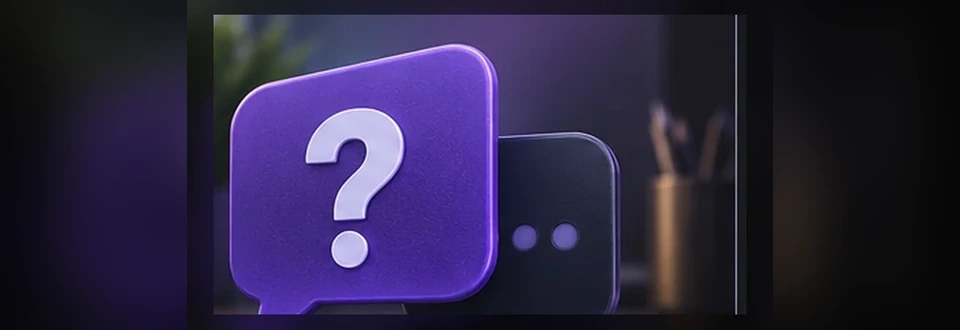
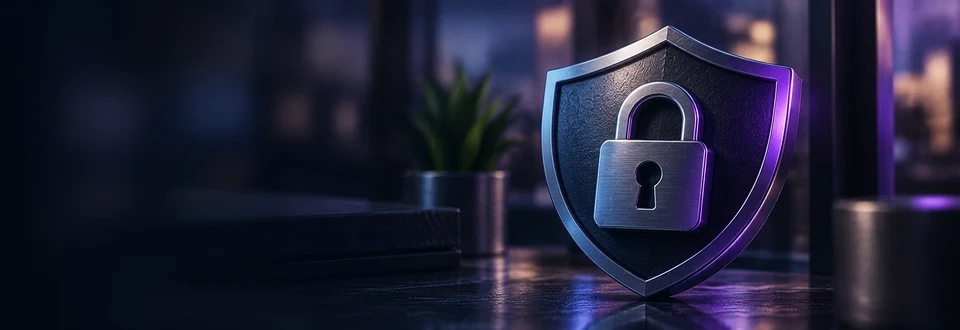
upd

diff --git a/assets/CSS/styles/main-menu.css b/assets/CSS/styles/main-menu.css
@@ -84,9 +84,9 @@
 }
 
 .main-menu-logo {
-    width: 38px;
-    height: 38px;
-    flex: 0 0 38px;
+    width: 44px;
+    height: 44px;
+    flex: 0 0 44px;
     display: grid;
     grid-template-columns: repeat(2, 1fr);
     gap: 4px;
@@ -134,9 +134,9 @@
 }
 
 .main-menu-avatar {
-    width: 38px;
-    height: 38px;
-    flex: 0 0 38px;
+    width: 44px;
+    height: 44px;
+    flex: 0 0 44px;
     display: flex;
     align-items: center;
     justify-content: center;
@@ -425,9 +425,9 @@
     }
 
     .main-menu-logo {
-        width: 30px;
-        height: 30px;
-        flex-basis: 30px;
+        width: 34px;
+        height: 34px;
+        flex-basis: 34px;
         gap: 3px;
     }
 
@@ -448,9 +448,9 @@
     }
 
     .main-menu-avatar {
-        width: 30px;
-        height: 30px;
-        flex-basis: 30px;
+        width: 34px;
+        height: 34px;
+        flex-basis: 34px;
         border-radius: 8px;
         font-size: 10px;
     }
@@ -525,9 +525,9 @@
     }
 
     .main-menu-logo {
-        width: 27px;
-        height: 27px;
-        flex-basis: 27px;
+        width: 31px;
+        height: 31px;
+        flex-basis: 31px;
         gap: 2px;
     }
 
@@ -545,9 +545,9 @@
     }
 
     .main-menu-avatar {
-        width: 27px;
-        height: 27px;
-        flex-basis: 27px;
+        width: 31px;
+        height: 31px;
+        flex-basis: 31px;
         border-radius: 7px;
         font-size: 9px;
     }
@@ -561,9 +561,9 @@
     }
 
     .main-menu-close {
-        width: 26px;
-        height: 26px;
-        flex-basis: 26px;
+        width: 30px;
+        height: 30px;
+        flex-basis: 30px;
         border-radius: 7px;
     }
 
@@ -631,9 +631,9 @@
     }
 
     .main-menu-logo {
-        width: 31px;
-        height: 31px;
-        flex: 0 0 31px;
+        width: 35px;
+        height: 35px;
+        flex: 0 0 35px;
         gap: 3px;
     }
 
@@ -651,9 +651,9 @@
     }
 
     .main-menu-avatar {
-        width: 31px;
-        height: 31px;
-        flex: 0 0 31px;
+        width: 35px;
+        height: 35px;
+        flex: 0 0 35px;
         border-radius: 8px;
         font-size: 10px;
     }
@@ -775,9 +775,9 @@
     }
 
     .main-menu-logo {
-        width: 25px;
-        height: 25px;
-        flex-basis: 25px;
+        width: 29px;
+        height: 29px;
+        flex-basis: 29px;
     }
 
     .main-menu-title h1 {
@@ -789,9 +789,9 @@
     }
 
     .main-menu-avatar {
-        width: 25px;
-        height: 25px;
-        flex-basis: 25px;
+        width: 29px;
+        height: 29px;
+        flex-basis: 29px;
         font-size: 9px;
     }
 
@@ -893,21 +893,21 @@
     }
 
     .main-menu-logo {
-        width: 26px;
-        height: 26px;
-        flex-basis: 26px;
+        width: 30px;
+        height: 30px;
+        flex-basis: 30px;
     }
 
     .main-menu-avatar {
-        width: 26px;
-        height: 26px;
-        flex-basis: 26px;
+        width: 30px;
+        height: 30px;
+        flex-basis: 30px;
     }
 
     .main-menu-close {
-        width: 25px;
-        height: 25px;
-        flex-basis: 25px;
+        width: 29px;
+        height: 29px;
+        flex-basis: 29px;
     }
 
     .main-menu-grid {
@@ -1046,9 +1046,9 @@
     }
 
     .main-menu-logo {
-        width: 40px;
-        height: 40px;
-        flex-basis: 40px;
+        width: 46px;
+        height: 46px;
+        flex-basis: 46px;
         gap: 4px;
     }
 
@@ -1063,9 +1063,9 @@
     }
 
     .main-menu-avatar {
-        width: 40px;
-        height: 40px;
-        flex-basis: 40px;
+        width: 46px;
+        height: 46px;
+        flex-basis: 46px;
         border-radius: 10px;
         font-size: 13px;
     }
@@ -1294,9 +1294,9 @@
     }
 
     .main-menu-logo {
-        width: 23px;
-        height: 23px;
-        flex-basis: 23px;
+        width: 27px;
+        height: 27px;
+        flex-basis: 27px;
     }
 
     .main-menu-avatar {
@@ -1308,9 +1308,9 @@
     }
 
     .main-menu-close {
-        width: 23px;
-        height: 23px;
-        flex-basis: 23px;
+        width: 27px;
+        height: 27px;
+        flex-basis: 27px;
     }
 }
 
@@ -1477,9 +1477,70 @@
 
     .main-menu-avatar {
         display: flex;
-        width: 31px;
-        height: 31px;
-        flex: 0 0 31px;
+        width: 35px;
+        height: 35px;
+        flex: 0 0 35px;
         font-size: 11px;
     }
 }
+
+/* Main menu brand mark: make it more prominent without disturbing card layout. */
+.main-menu-logo {
+    width: 50px;
+    height: 50px;
+    flex: 0 0 50px;
+}
+
+.main-menu-logo-image {
+    transform: scale(1.30);
+    transform-origin: center;
+}
+
+@media (min-width: 1100px) and (min-height: 650px) {
+    .main-menu-logo {
+        width: 54px;
+        height: 54px;
+        flex-basis: 54px;
+    }
+
+    .main-menu-logo-image {
+        transform: scale(1.38);
+    }
+}
+
+@media (orientation: landscape) and (max-width: 1099px) {
+    .main-menu-logo {
+        width: 38px;
+        height: 38px;
+        flex-basis: 38px;
+    }
+
+    .main-menu-logo-image {
+        transform: scale(1.28);
+    }
+}
+
+@media (orientation: landscape) and (max-height: 420px) and (max-width: 1099px) {
+    .main-menu-logo {
+        width: 34px;
+        height: 34px;
+        flex-basis: 34px;
+    }
+
+    .main-menu-logo-image {
+        transform: scale(1.22);
+    }
+}
+
+@media (max-width: 560px) and (orientation: portrait) {
+    .main-menu-logo {
+        width: 36px;
+        height: 36px;
+        flex-basis: 36px;
+    }
+
+    .main-menu-logo-image {
+        transform: scale(1.22);
+    }
+}
+

diff --git a/tests/cases.js b/tests/cases.js
@@ -4,31 +4,6 @@
     var Tests = window.CefVisualTests;
     if (!Tests) throw new Error("visual-test.js must be loaded before cases.js");
 
-    function ensureGallery() {
-        var section = document.getElementById("cef-visual-test-showcase");
-        if (section) return section;
-
-        section = document.createElement("section");
-        section.id = "cef-visual-test-showcase";
-        section.dataset.cefTestSurface = "gallery";
-        section.innerHTML = `
-            <div class="cef-test-card">
-                <div class="cef-test-kicker">CEF LOCAL TEST</div>
-                <h1>Новий стиль кнопок</h1>
-                <p>Тестова папка <b>tests/</b> використовує реальні production CSS/JS. Тут можна перевіряти нові екрани без сервера.</p>
-                <div class="cef-test-button-grid">
-                    <button class="dialog-button dialog-button-primary" type="button">ПОЧАТИ ГРАТИ  ›</button>
-                    <button class="dialog-button" type="button">ДІЗНАТИСЬ БІЛЬШЕ  ›</button>
-                    <button class="dialog-button dialog-button-danger" type="button">НЕБЕЗПЕЧНА ДІЯ</button>
-                    <button class="dialog-button" type="button">ТЕКСТОВА КНОПКА  ›</button>
-                    <button class="dialog-button dialog-button-primary cef-test-wide" type="button">ПІДТВЕРДИТИ  ›</button>
-                </div>
-                <div class="cef-test-note">Для мобільної адаптації вистав viewport 1280×576 або 854×393. Новий тест додається одним <code>CefVisualTests.register(...)</code> у tests/cases.js.</div>
-            </div>`;
-        document.body.appendChild(section);
-        return section;
-    }
-
     function ticket(id, title, author, status, admin, messages) {
         return {
             Id: id,
@@ -91,12 +66,7 @@
     window.CefVisualTestHud = {
         restore: restoreHudPlatform
     };
-
-    Tests.register("gallery", "Кнопки", function () {
-        ensureGallery().classList.remove("hidden");
-    });
-
-    Tests.register("authorization", "Login", function () {
+Tests.register("authorization", "Login", function () {
         Tests.receive("authorization:show", "Test_Player");
     });
 

diff --git a/assets/JavaScript/main-menu.js b/assets/JavaScript/main-menu.js
@@ -22,8 +22,8 @@ var MainMenu = {
         },
         {
             Id: 4,
-            Title: "Поставити питання",
-            Description: "Отримайте відповідь на своє питання",
+            Title: "Безпека",
+            Description: "Захист акаунту та ігрового процесу",
             Image: "./assets/CSS/Images/MainMenu/question.webp"
         },
         {
